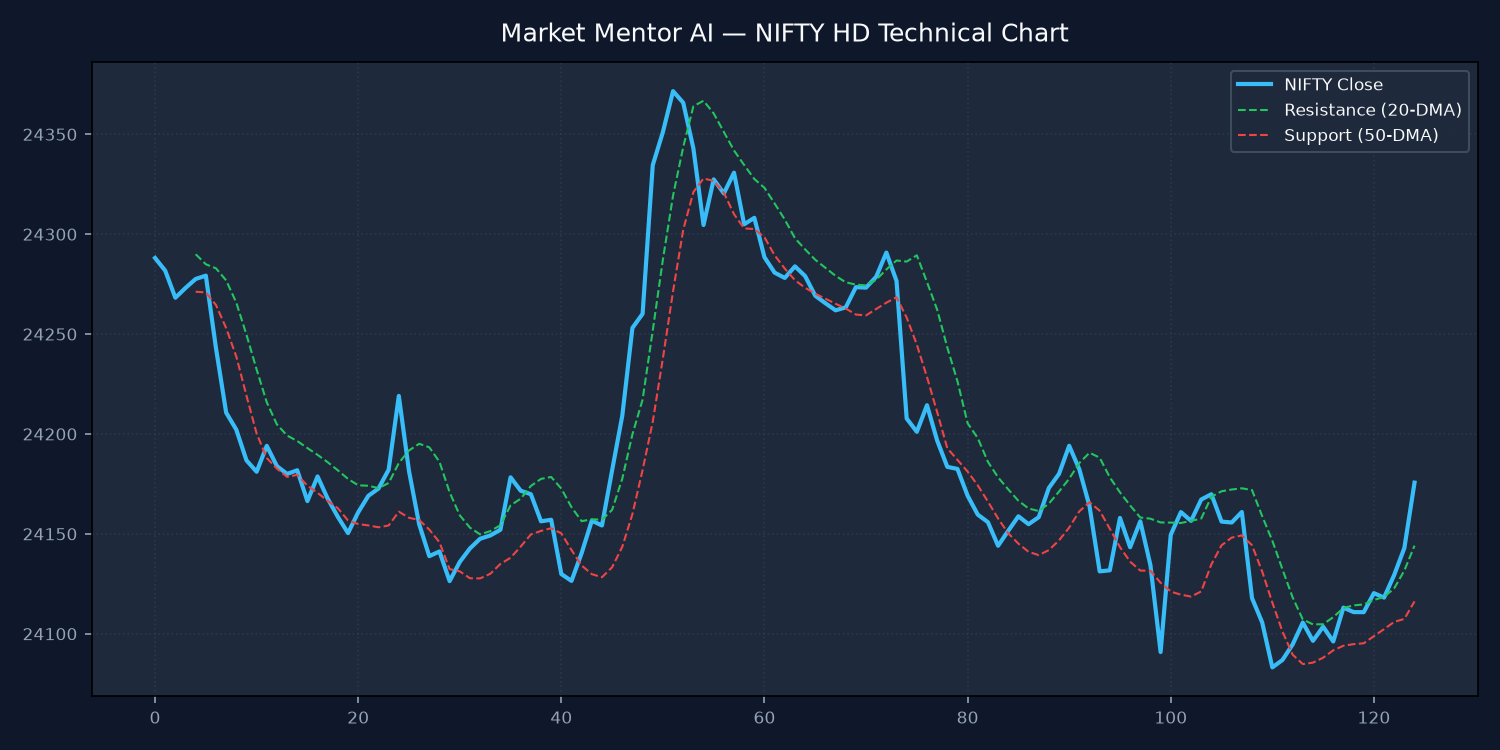
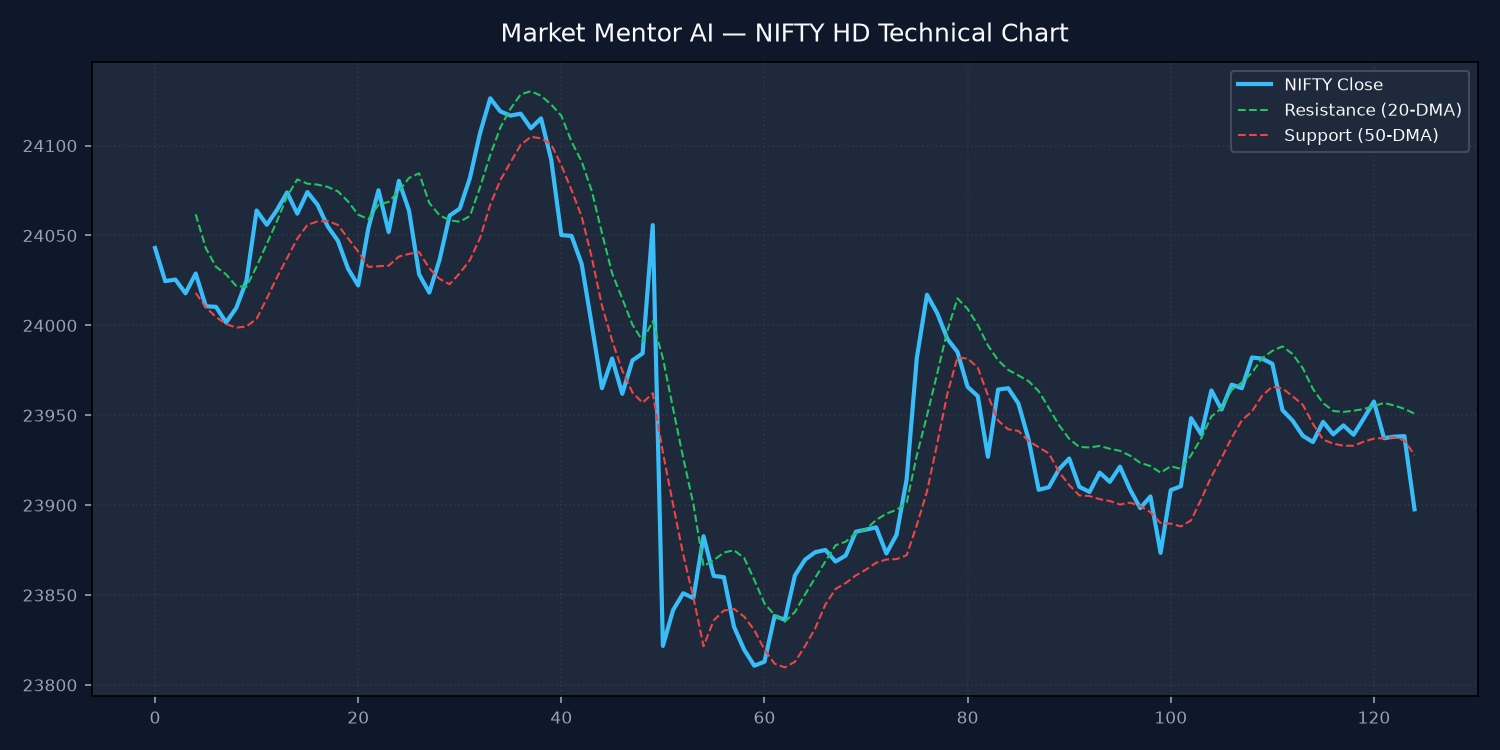
Fix: Add Weekend (Saturday/Sunday) Guardrails to run_local_scheduler.py and ai_options_quant.py to prevent weekend notifications

diff --git a/run_local_scheduler.py b/run_local_scheduler.py
@@ -15,24 +15,30 @@ if sys.platform == "win32":
 def get_ist_now():
     return datetime.now(timezone(timedelta(hours=5, minutes=30)))
 
-def is_market_open():
+def is_mcx_open():
     now = get_ist_now()
     if now.weekday() >= 5:
         return False
-    market_start = now.replace(hour=9, minute=15, second=0, microsecond=0)
-    market_end = now.replace(hour=15, minute=30, second=0, microsecond=0)
-    return market_start <= now <= market_end
+    mcx_start = now.replace(hour=9, minute=0, second=0, microsecond=0)
+    mcx_end = now.replace(hour=23, minute=30, second=0, microsecond=0)
+    return mcx_start <= now <= mcx_end
 
 def run_pulse():
+    now = get_ist_now()
     print(f"\n========================================================")
     print(f"RUNNING LOCAL AI OPTIONS QUANT ENGINE & TELEGRAM PULSE")
-    print(f"Time: {get_ist_now().strftime('%Y-%m-%d %H:%M:%S')} (IST)")
+    print(f"Time: {now.strftime('%Y-%m-%d %H:%M:%S')} (IST)")
     print(f"========================================================")
     
+    if now.weekday() >= 5:
+        print("⏸ [MARKET CLOSED] Today is WEEKEND (Saturday/Sunday). Auto-scans & Intraday notifications are PAUSED.")
+        print("💡 Tip: Send /status or /mcx on Telegram anytime for on-demand analysis.")
+        return
+
     python_exec = sys.executable
     
     try:
-        print("[1/2] Executing ai_options_quant.py...")
+        print("[1/3] Executing ai_options_quant.py...")
         subprocess.run([python_exec, "ai_options_quant.py"], check=True)
     except Exception as e:
         print(f"[ERROR] Failed to run ai_options_quant.py: {e}")

diff --git a/ai_options_quant.py b/ai_options_quant.py
@@ -607,9 +607,15 @@ def main():
         json.dump(payload, f, indent=2)
     print(f"[INFO] Saved AI Quant payload to {json_path}")
     
-    # Broadcast to Telegram
-    msg = f"🧠 **AI QUANT MULTI-REGIME OPTIONS ENGINE** 🧠\n"
-    msg += f"🕒 **Time**: {now_str} (IST)\n\n"
+    # Broadcast to Telegram (Only on weekdays or when explicitly triggered)
+    ist_tz = timezone(timedelta(hours=5, minutes=30))
+    now_dt = datetime.now(ist_tz)
+    is_weekend = now_dt.weekday() >= 5
+
+    if is_weekend:
+        print("[INFO] Weekend detected (Saturday/Sunday). Skipping automatic Telegram broadcast.")
+        tg_token = None
+        tg_chat_id = None
     
     msg += f"📊 **NIFTY 50 QUANT MATRIX**:\n"
     msg += f"• **Mood/Regime**: `{nifty_regime}`\n"
